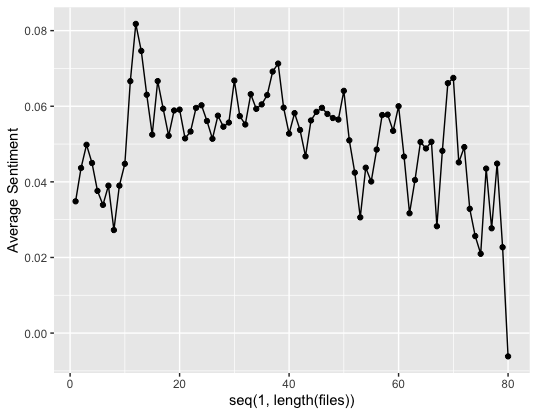
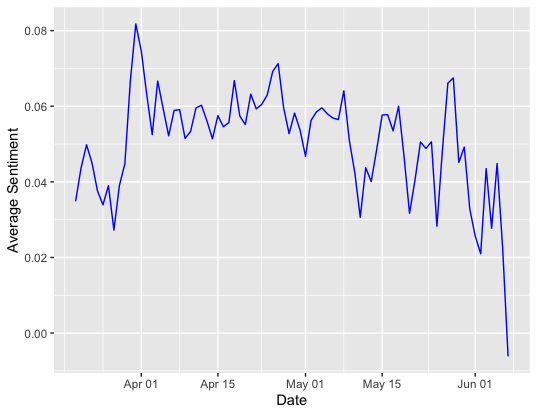
created plots comparing new cases with sentiment

diff --git a/README.md b/README.md
@@ -1,6 +1,8 @@
 # ASA-DataFest-2020
 
 ## Data Used
+https://covid.ourworldindata.org/data/ecdc/new_cases.csv
+
 https://ieee-dataport.org/open-access/coronavirus-covid-19-tweets-dataset
 
 https://zenodo.org/record/3884334
